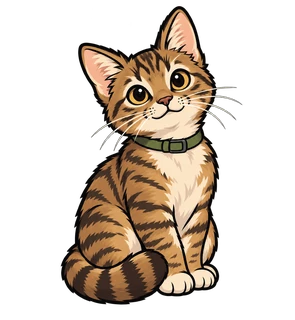
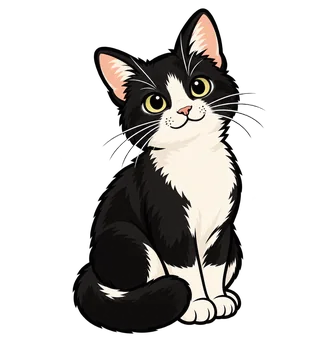
Ground the cats in photos and refine Killua memorial

diff --git a/components/memorial.tsx b/components/memorial.tsx
@@ -1,17 +1,11 @@
-import { useState } from "react";
-import { useMotion } from "./motion";
 import { useLanguage } from "../lib/use-language";
 import { designCopy } from "../lib/design-copy";
 
 export default function Memorial() {
   const { locale } = useLanguage();
   const c = designCopy[locale];
-  const { enabled } = useMotion();
-  const [playing, setPlaying] = useState(false);
   return (
-    <figure
-      className={`memorial ${playing && enabled ? "memory-playing" : ""}`}
-    >
+    <figure className="memorial">
       <div className="memory-art">
         <img
           src="/assets/cast/killua-memory.webp"
@@ -24,19 +18,7 @@ export default function Memorial() {
           height="550"
         />
       </div>
-      <figcaption>
-        <span>{c.memory}</span>
-        {enabled && (
-          <button
-            type="button"
-            onClick={() => setPlaying(!playing)}
-            aria-pressed={playing}
-          >
-            {playing ? c.stopMoment : c.moment}{" "}
-            <span aria-hidden="true">{playing ? "Ⅱ" : "▷"}</span>
-          </button>
-        )}
-      </figcaption>
+      <figcaption>{c.memory}</figcaption>
       <details className="memory-photo">
         <summary>{c.photo}</summary>
         <img

diff --git a/lib/design-copy.ts b/lib/design-copy.ts
@@ -27,12 +27,9 @@ export const designCopy = {
     newsletterFallback:
       "For now, you can follow new posts in your favorite RSS reader.",
     footer: "Built with curiosity. Shared in the open.",
-    source: "Source",
     back: "All writing",
     memory: "In memory of Killua",
     photo: "A photograph of Killua",
-    moment: "A quiet moment",
-    stopMoment: "Pause the moment",
     skip: "Skip to content",
     filter: "Filter writing",
     scene: "Arthur taking a break, with Gon and Pitou nearby",
@@ -67,12 +64,9 @@ export const designCopy = {
     newsletterFallback:
       "Por enquanto, acompanhe os novos artigos no seu leitor de RSS favorito.",
     footer: "Feito com curiosidade. Compartilhado abertamente.",
-    source: "Código-fonte",
     back: "Todos os artigos",
     memory: "Em memória de Killua",
     photo: "Uma fotografia de Killua",
-    moment: "Um momento tranquilo",
-    stopMoment: "Pausar o momento",
     skip: "Ir para o conteúdo",
     filter: "Filtrar artigos",
     scene: "Arthur fazendo uma pausa, com Gon e Pitou por perto",

diff --git a/styles/index.css b/styles/index.css
@@ -781,22 +781,9 @@ img {
 }
 
 .memorial figcaption {
-  display: flex;
-  justify-content: space-between;
-  align-items: center;
   color: var(--muted);
   font-size: 11px;
   padding-top: 12px;
-}
-
-.memorial figcaption button {
-  border: 0;
-  background: none;
-  font-size: 11px;
-  padding: 5px;
-  display: flex;
-  gap: 9px;
-  align-items: center;
 }
 
 .memory-photo {
@@ -820,18 +807,25 @@ img {
   font-size: 80px;
 }
 
-.memory-playing .memory-art img {
-  animation: memory-breath 6s ease-in-out infinite;
-  transform-origin: 50% 100%;
+.killua-chase {
+  display: flex;
+  justify-content: flex-end;
+  margin: 32px auto 8px;
 }
 
-@keyframes memory-breath {
+.killua-chase img {
+  width: min(260px, 65vw);
+  height: auto;
+  animation: little-run 5s ease-in-out infinite;
+}
+
+@keyframes little-run {
   0%,
   100% {
-    transform: translateY(0);
+    transform: translateX(0);
   }
   50% {
-    transform: translateY(-3px);
+    transform: translateX(8px);
   }
 }
 

diff --git a/pages/posts/[slug].tsx b/pages/posts/[slug].tsx
@@ -98,6 +98,21 @@ export default function Post({
             </div>
           )}
           <PostBody content={post.content} />
+          {memorial && (
+            <div className="killua-chase reading-column">
+              <img
+                src="/assets/cast/killua-chase.webp"
+                alt={
+                  post.lang === "en"
+                    ? "Killua the cat runs playfully with Killua from Hunter × Hunter."
+                    : "O gato Killua corre brincando com Killua de Hunter × Hunter."
+                }
+                width="520"
+                height="347"
+                loading="lazy"
+              />
+            </div>
+          )}
           <div className="article-end reading-column">
             <span aria-hidden="true">✳</span>
             <Link href="/">← {c.back}</Link>

diff --git a/tests/i18n/redesign.spec.ts b/tests/i18n/redesign.spec.ts
@@ -71,6 +71,8 @@ test("reduced motion is respected and the memorial starts still", async ({
     "none",
   );
   await expect(page.locator(".character-sprite")).toHaveCount(0);
+  await expect(page.getByRole("button", { name: "A quiet moment" })).toHaveCount(0);
+  await expect(page.getByAltText(/Killua the cat runs playfully/)).toHaveCSS("animation-name", "none");
   await page.getByText("A photograph of Killua", { exact: true }).click();
   await expect(page.getByAltText("Killua", { exact: true })).toBeVisible();
 });

diff --git a/components/footer.tsx b/components/footer.tsx
@@ -14,7 +14,6 @@ export default function Footer() {
         <p>{c.footer}</p>
       </div>
       <div className="footer-links">
-        <a href="https://github.com/ArthurSens/blog">{c.source} ↗</a>
         <a href="https://www.linkedin.com/in/arthursilvasens/">LinkedIn ↗</a>
         <a href="https://twitter.com/ArthurSilvaSens">Twitter ↗</a>
         <Link href="/privacy">{c.privacy}</Link>

diff --git a/design/personal-assets.md b/design/personal-assets.md
@@ -1,28 +1,10 @@
 # Personal cast artwork
 
-Generated with built-in imagegen for the website; no ChatGPT pet records were created or changed.
+Created with built-in ImageGen for the website. No ChatGPT Pet records were created or changed.
 
-## Status
+- `gon.webp` is the black-and-white tuxedo cat with a white blaze, bib and paws. References: Arthur's supplied `IMG_6364.jpeg` and `IMG_3610(1).jpeg`; the previous 2D companion drawing guided style only.
+- `pitou.webp` is the gray-and-white cat with a white bib and paws and a fluffy gray tail. Same photograph references and 2D style guide.
+- `killua-memory.webp` is Arthur gently petting tri-color Killua, based on the original `public/assets/blog/grief/cover.png`. Arthur's expression was revised to a quiet closed-mouth almost-smile. The post's original wording and photograph remain available.
+- `killua-chase.webp` is a small fictional vignette of the tri-color kitten running with Killua Zoldyck from Hunter × Hunter. It appears after the full essay so it does not interrupt reading. The artwork is a fan reference, not official franchise art.
 
-- `public/assets/cast/killua-memory.png`: Arthur likeness references the approved existing Arth pet. Killua markings reference the real photo in `public/assets/blog/grief/cover.png`. Quiet companionship scene, no memorial cliches. Original post text is untouched.
-- `public/assets/cast/gon.png` and `pitou.png`: **provisional visual concepts, not confirmed likenesses of the real cats**. No photos of Gon or Pitou were available for this pass. Brown tabby/green collar and silver/violet collar are design placeholders; replace after photo review.
-- All are original 2D raster illustrations with transparency. Character images are not frame-complete animation sprite sheets.
-
-## Prompts
-
-### Killua memory
-
-Use case: illustration-story. Create a transparent wide website illustration, an intimate gentle memory of Arthur sitting quietly cross-legged with his small cat Killua curled beside his knee. Input image 1 is the approved Arthur character design: preserve his likeness, black short hair, mustache, tattoos, warm skin, white tee and black trousers, original 2D outlined Pets companion style with restrained flat shading. Input image 2 is actual Killua reference: a small calico tabby kitten with white chest and paws, ginger and brown-black tabby patches, large ears; use these markings faithfully. Arthur has a quiet affectionate expression, one hand resting near the kitten. Full bodies, comfortable quiet companionship, warm restrained mood. Isolated on real transparent background with only a very small warm ground shadow. No background scene, text, halo, wings, hearts, tears, memorial iconography, 3D, glossy rendering, extra characters. Horizontal composition with generous clear margins.
-
-### Gon
-
-Use case: stylized-concept. Website character asset. Create a single original 2D illustrated companion cat named Gon, provisional concept rather than true real cat likeness. Reference image shows the established illustrated Pets style; match its crisp dark outlines, cute small companion proportions and restrained flat warm shading, NOT the human subject. Gon is an alert warm brown tabby with cream muzzle and chest, bright friendly eyes, a simple moss-green collar. Full body in a small seated three-quarter pose, tail curled around paws, curious friendly expression. Isolate on genuinely transparent background, no ground plane or scenery, no text, no glow. Strong readable silhouette at 80px display size. No 3D, no photo, no anime human features.
-
-### Pitou
-
-Use case: stylized-concept. Website character asset. Create a single original 2D illustrated companion cat named Pitou, provisional concept rather than true real cat likeness. Reference image shows the established illustrated Pets style; match its crisp dark outlines and restrained flat shading, NOT the human subject. Pitou is an elegant pale silver-gray cat with darker ears and tail, a cream chest, thoughtful warm gold eyes, a simple muted violet collar. Full body in a relaxed crouching pose, tail curving beside body, gently mischievous expression. Isolate on genuinely transparent background, no ground plane or scenery, no text, no glow. Strong readable silhouette at 80px display size. No 3D, no photo, no anime human features. Keep design original and tasteful.
-
-
-## Website delivery
-
-Optimized WebP versions are served from `public/assets/cast/`. PNGs mentioned above describe the generation-stage masters in local `design/source/`; see `asset-manifest.md`.
+Generation involved photo-grounded 2D illustration and a second edit to bring Gon and Pitou into the website's compact outlined companion style. All public files are transparent optimized WebP. Their full-resolution generated PNGs are local intermediates under `design/source/`.

diff --git a/design/brief.md b/design/brief.md
@@ -4,9 +4,9 @@ Audience: engineers and OSS contributors. Prometheus/OpenTelemetry interoperabil
 
 Homepage: a compact welcoming introduction; posts occupy the main content. Restrained warm neutrals, serif editorial headings, olive accents, and illustrated 2D Pets-style characters. No 3D, Japanese-script decoration, or visual clutter.
 
-Cast: Arthur leads; Gon and Pitou are close secondary characters; Prometheus and OpenTelemetry recur; anime references are occasional. Existing Arth companion is reused as the identity reference. The new exercise strip is a website asset. Project characters derive from official logo references. Gon and Pitou are provisional concepts until actual photographs are supplied.
+Cast: Arthur leads; Gon and Pitou are close secondary characters; Prometheus and OpenTelemetry recur when relevant; anime references are occasional. Existing Arth companion is reused as the identity reference. The new exercise strip is a website asset. Project characters derive from official logo references. Gon is black-and-white and Pitou is gray-and-white, grounded in Arthur's photographs.
 
-Motion: exercise → rest → watch; a tap prompts a wave. Pause and reduced-motion support; suspend character frame advancement while outside the viewport or the document is hidden. Article pages remain quiet. The memorial interaction is opt-in and subtle.
+Motion: exercise → rest → watch; a tap prompts a wave. Respect the system's reduced-motion preference; suspend character frame advancement while outside the viewport or the document is hidden. Article pages remain quiet. The memorial image is still, with a small playful vignette after the essay.
 
 Grief: the original Markdown file and all its text are unchanged. New Arthur/Killua art uses the existing approved Arth image and Killua's actual cover photo. The original photograph remains available in a disclosure. No comedic interactions or exercise characters appear on the article page.
 

diff --git a/README.md b/README.md
@@ -39,9 +39,9 @@ This uses Next.js Pages Router i18n with static generation and `next start`; `ou
 The approved brief is in `design/brief.md`; generation prompts and asset provenance are in `design/`.
 `styles/index.css` defines the responsive layout and colors. `lib/design-copy.ts` contains English and Portuguese UI copy.
 
-The cast uses ordinary image assets and discrete sprite frames. `Character` stops frame updates offscreen and while the page is hidden. Animations follow the visitor’s system reduced-motion preference without storing a local setting. Article pages do not run the homepage cast. The Grief memorial is still until explicitly played, and the original photo remains available.
+The cast uses ordinary image assets and discrete sprite frames. `Character` stops frame updates offscreen and while the page is hidden. Animations follow the visitor’s system reduced-motion preference without storing a local setting. Article pages do not run the homepage cast. The Grief memorial is still, the original photo remains available, and a small running vignette appears after the essay.
 
-Gon and Pitou's current artwork is provisional; replace with photo-grounded likenesses before final design approval.
+Gon and Pitou's artwork is based on Arthur's supplied photographs. Gon is black-and-white; Pitou is gray-and-white with a fluffy tail. Killua is tri-color.
 
 Every original `_posts/*.md` file is preserved. Presentation decisions such as Grief's memorial live outside the post in `lib/post-presentation.ts` and the article renderer. Future post-specific interactive explanations can be added as explicit React components, alongside prepared assets; they do not require rewriting the Markdown pipeline or adding a CMS. Prefer a useful static fallback and opt-in motion.
 

diff --git a/design/asset-manifest.md b/design/asset-manifest.md
@@ -4,6 +4,8 @@ Arth reference: existing owned ChatGPT Pet `pet_6ab6dc436b2c81919e06b37e043accbe
 
 Killua reference: existing `public/assets/blog/grief/cover.png` from this repository.
 
+Gon and Pitou references: Arthur's supplied photographs, including `IMG_6364.jpeg` and `IMG_3610(1).jpeg`. Gon is the black-and-white tuxedo cat; Pitou is gray-and-white. The fan-art footer vignette uses the same tri-color Killua reference.
+
 Logo references:
 - https://raw.githubusercontent.com/cncf/artwork/main/projects/prometheus/icon/color/prometheus-icon-color.png
 - https://raw.githubusercontent.com/cncf/artwork/main/projects/opentelemetry/icon/color/opentelemetry-icon-color.png
